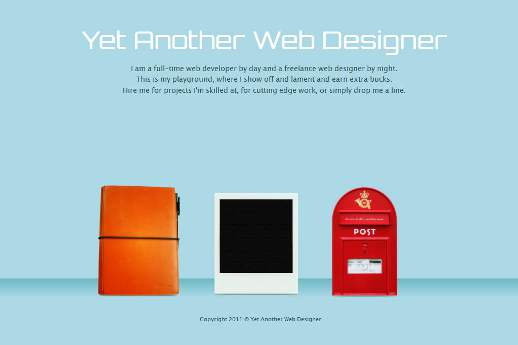
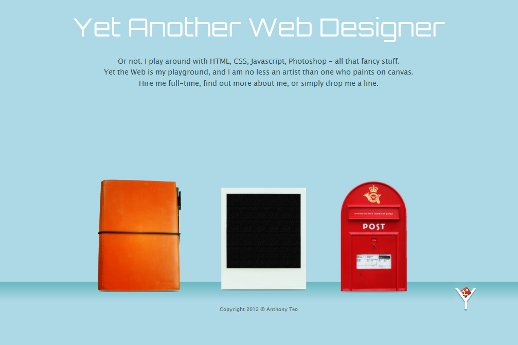
updated yawd-screenshot

Changed region(s): [[0.0, 0.5217, 1.0, 0.9275], [0.1236, 0.029, 0.8649, 0.2899]]

diff --git a/portfolio.php b/portfolio.php
@@ -46,23 +46,23 @@
 	  </div>
 	</div>
 	<div class="polaroid holder"> 
-	  <img src="http://cdn.yetanotherwebdesigner.com/images/gh2-screenshot.jpg" alt="Screenshot of GH-2" title="GH-2 Home" /> 
-	  <h2><a href="http://www.gh-2.net" title="GH-2 Home">GH-2</a></h2> 
-	  <p>A product site for one of Pure Science Supplements' flagship product, GH-2. This is a makeover from the previous text-heavy, plain design to a more
-	  engaging design. Tags: HTML5, CSS3, Cufon</p> 
-	  <div class="arrows"> 
-	    <a title="Previous" class="prev" href="#">&lt;</a><a title="Next" class="next" href="#">&gt;</a> 
-	  </div>
-	</div>
-	<div class="polaroid holder"> 
 	  <img src="http://cdn.yetanotherwebdesigner.com/images/yawd-screenshot.jpg" alt="Screenshot of Yet Another Web Designer's Homepage" title="I.e. the site you're browsing" /> 
 	  <h2><a href="/" title="I.e. the site you are browsing">Yet Another Web Designer</a></h2> 
-	  <p>A personal project that entails collecting some of my previous work,  my tweets on web design & development, as well as some experimentation. Tags: Responsive Design, Twitter API, Google Web Fonts</p> 
+	  <p>My portfolio site that entails collecting a selection of of my previous work and my tweets on web design & development. Tags: Responsive Design, Twitter API, Google Web Fonts</p> 
 	  <div class="arrows"> 
 	    <a title="Previous" class="prev" href="#">&lt;</a><a title="Next" class="next" href="#">&gt;</a> 
 	  </div>
 
-	</div><!-- ends .polaroid--> 
+	</div>
+	<div class="polaroid holder"> 
+	  <img src="http://cdn.yetanotherwebdesigner.com/images/gh2-screenshot.jpg" alt="Screenshot of GH-2" title="GH-2 Home" /> 
+	  <h2><a href="http://www.gh-2.net" title="GH-2 Home">GH-2</a></h2> 
+	  <p>A product site for one of Pure Science Supplements' flagship product, GH-2. This is a makeover from the previous text-heavy, plain design to a more engaging design. Tags: HTML5, CSS3, Cufon</p> 
+	  <div class="arrows"> 
+	    <a title="Previous" class="prev" href="#">&lt;</a><a title="Next" class="next" href="#">&gt;</a> 
+	  </div>
+	</div>
+	<!-- ends .polaroid--> 
 	<div class="polaroid holder"> 
 	  <img src="http://cdn.yetanotherwebdesigner.com/images/ak-screenshot.jpg" alt="Screenshot of Amber KNowles Homepage" title="Amber Knowles Home" /> 
 	  <h2><a target="blank" href="http://www.amberknowles.com" title="Visit Amber Knowles">Amber Knowles</a></h2> 
